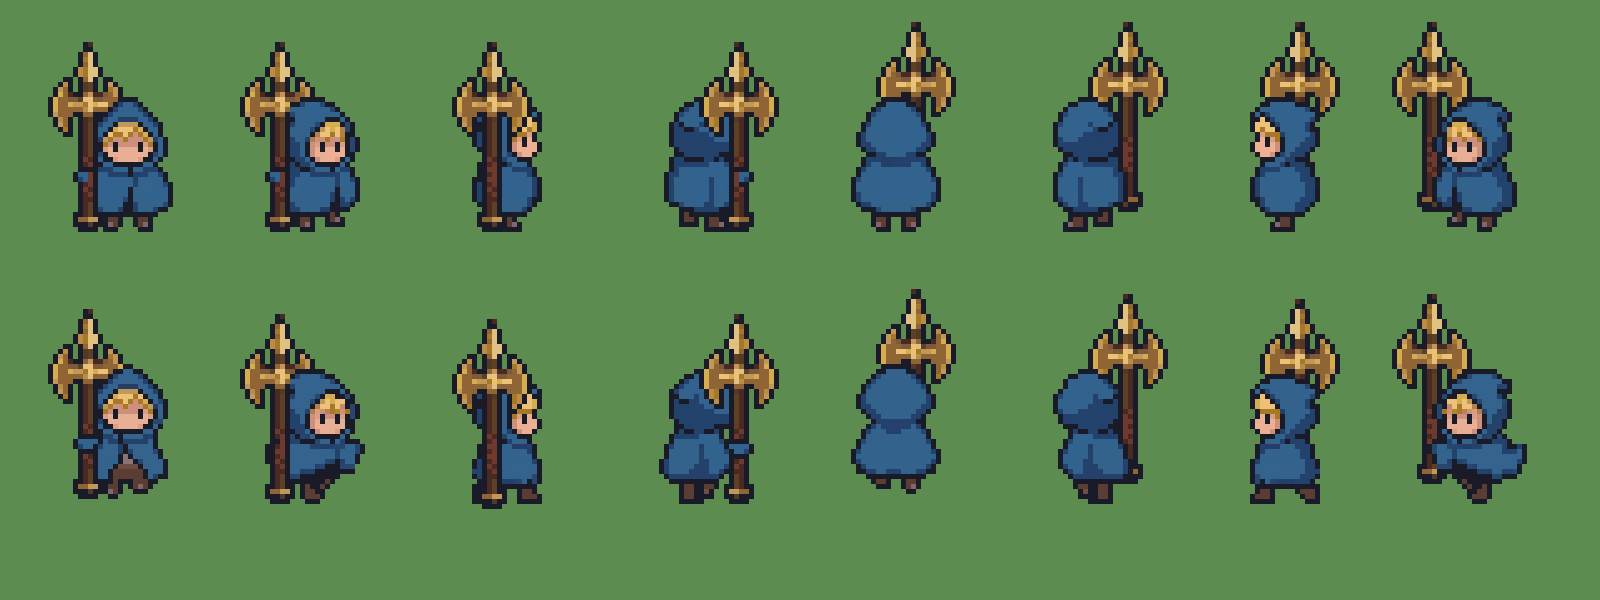
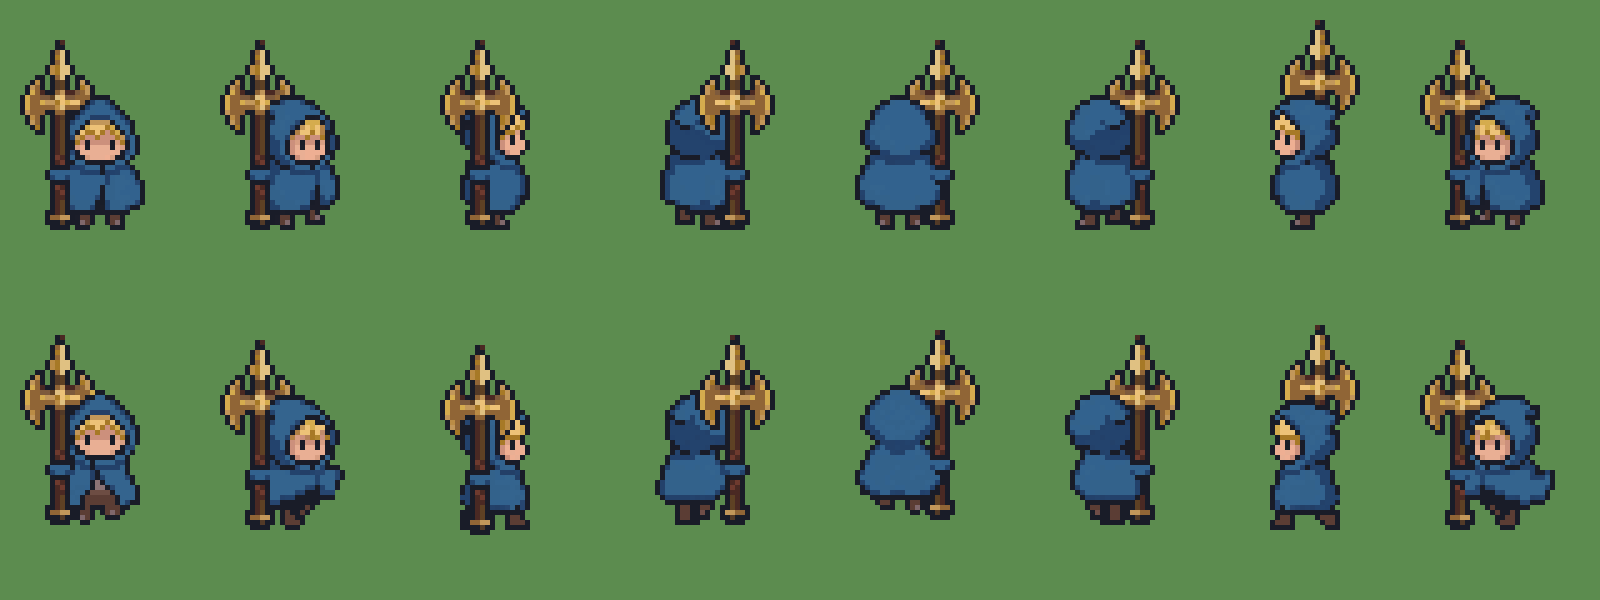
Hands on the carried axe facing north, north-west and south-west, at one grip height in every facing; walk and run frames carry the cloak out to the hand

diff --git a/RoadOfTheOldKing/Assets/Scripts/Player/PlayerWeaponCarry.cs b/RoadOfTheOldKing/Assets/Scripts/Player/PlayerWeaponCarry.cs
@@ -4,10 +4,10 @@ using UnityEngine;
 namespace RoadOfTheOldKing.Player
 {
     // Out-of-combat carry: the weapon rests upright at the hero's right side, butt down, on the edge
-    // of his silhouette, mirrored per facing and drawn in front of or behind the body. On the camera
-    // side a small fold of his cloak wraps the grip, so a hand hidden inside it appears to hold the
-    // haft. The hold rises and falls with the body's walk frames. Presentation only; the weapon keeps
-    // ownership, state and collision.
+    // of his silhouette, mirrored per facing and drawn in front of or behind the body. Wherever his right
+    // hand can be seen, a small fold of his cloak wraps the grip, drawn over the body, so a hand hidden
+    // inside it appears to hold the haft. The hold rises and falls with the body's walk frames.
+    // Presentation only; the weapon keeps ownership, state and collision.
     [DisallowMultipleComponent, RequireComponent(typeof(PlayerSpriteAnimator))]
     [DefaultExecutionOrder(210)]
     public sealed class PlayerWeaponCarry : MonoBehaviour
@@ -20,7 +20,7 @@ namespace RoadOfTheOldKing.Player
             public bool flipX;
             [Tooltip("Draw over the body: his right side faces the camera.")]
             public bool inFront;
-            [Tooltip("Wrap the grip in a fold of his cloak.")]
+            [Tooltip("Wrap the grip in a fold of his cloak, drawn over the body.")]
             public bool coverGrip;
         }
 
@@ -83,7 +83,7 @@ namespace RoadOfTheOldKing.Player
             int octant = animator.Octant;
             SplitInnerBlade(weaponSprite, hold.inFront && tuckInnerBlade != null && octant < tuckInnerBlade.Length && tuckInnerBlade[octant]);
 
-            bool folded = !resting && hold.inFront && hold.coverGrip && gripFold != null;
+            bool folded = !resting && hold.coverGrip && gripFold != null;
             fold.enabled = folded;
             if (folded)
             {
@@ -175,19 +175,20 @@ namespace RoadOfTheOldKing.Player
             RestoreWeapon();
         }
 
-        // Camera-side holds sit 3 px low (a depth cue) so the grip meets hand height (11 px): on the
-        // silhouette edge, except east, which runs in line with his back half. Far-side holds stand
-        // 1 px high behind him; west lines up with his body so it masks the haft, and north shows a
-        // strip of handle along his right side with the head over his shoulder. East and west mirror each other. Blades point away from the
-        // face (backward in side views).
+        // Every hold with a hand grips at hand height (11 px), so the hand sits at one place on the handle in
+        // every facing (user, 23 Nov): on the silhouette edge, except east, which runs in line with his back half.
+        // North, north-west and south-west draw the axe behind him with the hand over his cloak; north shows a
+        // strip of handle along his right side with the head over his shoulder. West, where his body hides the
+        // hand, stands 4 px higher so the head clears his hood. East and west mirror each other. Blades point
+        // away from the face (backward in side views).
         private static Hold[] DefaultHolds() => new[]
         {
             new Hold { grip = new Vector2Int(-4, 11), flipX = true, inFront = true, coverGrip = true },   // E
             new Hold { grip = new Vector2Int(7, 11), flipX = false, inFront = true, coverGrip = true },   // NE
-            new Hold { grip = new Vector2Int(8, 15), flipX = false, inFront = false, coverGrip = false }, // N
-            new Hold { grip = new Vector2Int(8, 15), flipX = false, inFront = false, coverGrip = false }, // NW
+            new Hold { grip = new Vector2Int(8, 11), flipX = false, inFront = false, coverGrip = true },  // N
+            new Hold { grip = new Vector2Int(8, 11), flipX = false, inFront = false, coverGrip = true },  // NW
             new Hold { grip = new Vector2Int(4, 15), flipX = false, inFront = false, coverGrip = false }, // W
-            new Hold { grip = new Vector2Int(-8, 15), flipX = true, inFront = false, coverGrip = false }, // SW
+            new Hold { grip = new Vector2Int(-8, 11), flipX = true, inFront = false, coverGrip = true },  // SW
             new Hold { grip = new Vector2Int(-8, 11), flipX = true, inFront = true, coverGrip = true },   // S
             new Hold { grip = new Vector2Int(-8, 11), flipX = true, inFront = true, coverGrip = true },   // SE
         };

diff --git a/Docs/PlayerAnimation.md b/Docs/PlayerAnimation.md
@@ -44,7 +44,7 @@ The hero has no arms, so the bronze axe (a double-bitted head with a thrusting s
 
 ![Axe carry in each direction, standing and mid-stride](Art/Player/Hero-Axe-Carry.png)
 
-- **Carry:** `PlayerWeaponCarry` holds one whole-pixel grip per facing, in front of or behind the body. A small cloak fold wraps the grip so a hidden hand appears to hold it. Facing south and south-east, the blade on his side of the haft draws behind his hood, as if slung over his shoulder; facing east and north-east the whole axe stays in his right hand, in front of him. The axe rises and falls with the body's walk frames in every direction.
+- **Carry:** `PlayerWeaponCarry` holds one whole-pixel grip per facing, in front of or behind the body. Wherever his right hand can be seen (every facing but west), a small cloak fold wraps the haft at hand height so a hidden hand appears to hold it. Facing south and south-east, the blade on his side of the haft draws behind his hood, as if slung over his shoulder; facing east and north-east the whole axe stays in his right hand, in front of him. Every facing with a hand grips at the same height, so the hand sits at one place on the handle and the axe doesn't jump as he turns; west, where his body hides the hand, stands higher so the head clears his hood. The axe and hand rise and fall with the body's walk frames, and the walk and run frames carry the cloak out to the hand.
 - **Cloak colour:** chosen at New Game and kept in the save. The `EnemyFlash` shader turns the body's and the grip fold's blues into that colour by their brightness, so shading survives; an empty choice keeps the drawn blue.
 - **Attacks:** procedural sweeps and thrusts, sampled from the same clock and geometry as the damage.
 - **Recall:** the returning axe keeps its silhouette in translucent cyan with a short trail, then turns solid on the catch.

diff --git a/CHANGELOG.md b/CHANGELOG.md
@@ -14,6 +14,7 @@
 - A throw at the Recall stone can no longer stick out of reach.
 - An axe lodged in something no longer draws behind it.
 - The carried axe bobs in step when walking away from the camera.
+- The hand on the carried axe stays on the cloak while walking, and now shows from behind too.
 
 ## 0.5 — Full production
 
